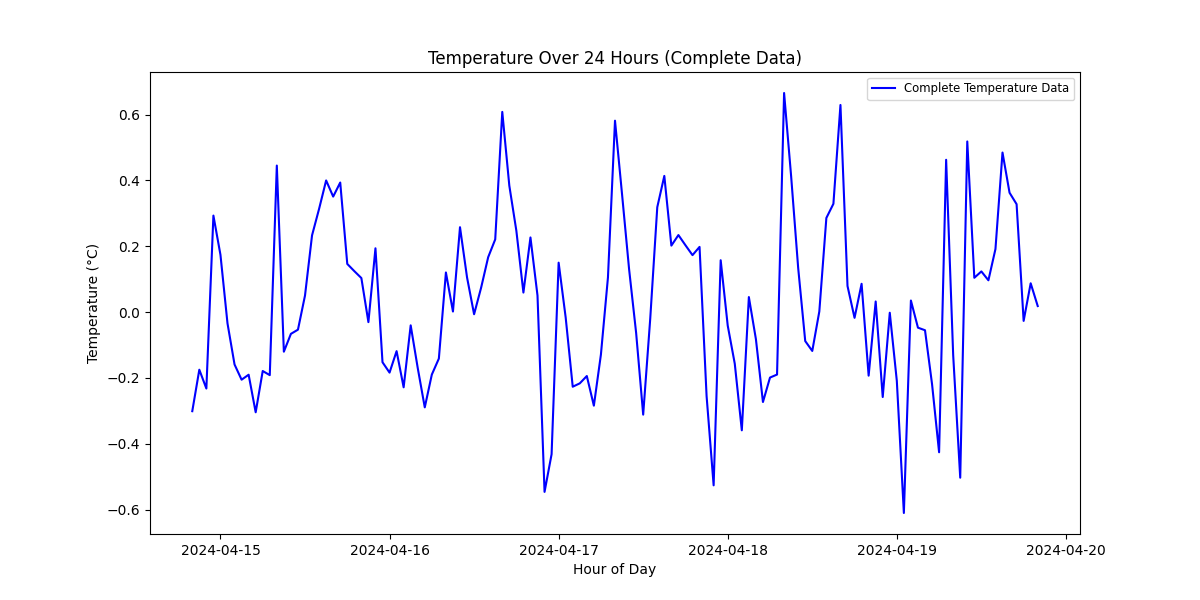
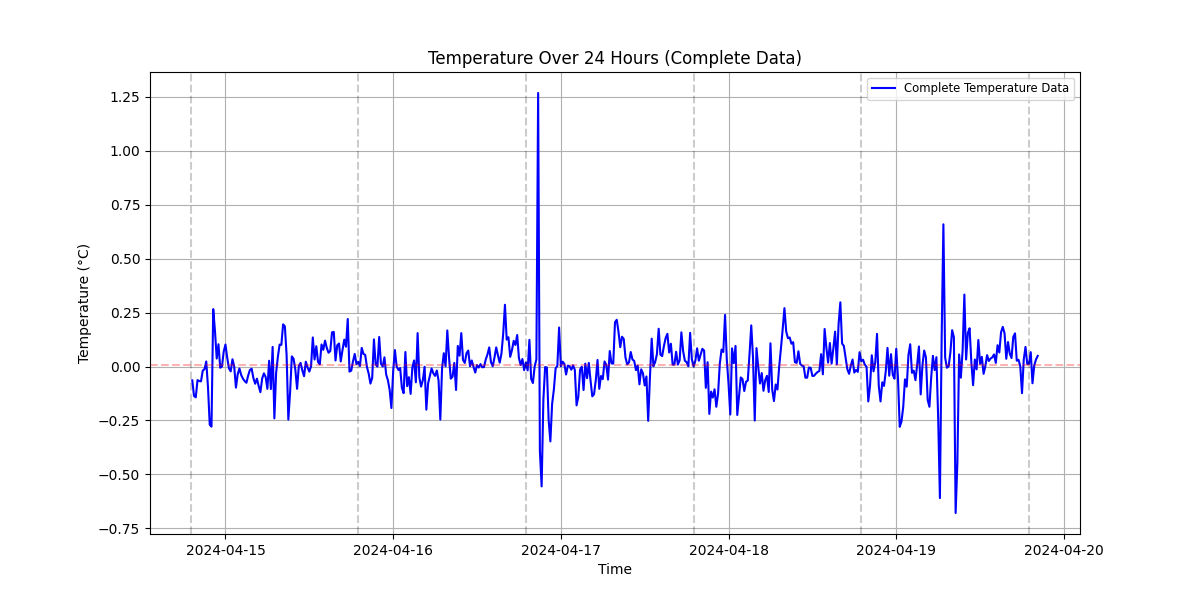
some changes

diff --git a/datamining/tsa/cleaningdata.py b/datamining/tsa/cleaningdata.py
@@ -1,9 +1,10 @@
 import pandas as pd
 import numpy as np
 import matplotlib.pyplot as plt
-import matplotlib.dates as mdates
-from statsmodels.tsa.api import VAR
 from statsmodels.tsa.stattools import adfuller
+from statsmodels.graphics.tsaplots import plot_acf, plot_pacf
+from statsmodels.tsa.arima.model import ARIMA
+from statsmodels.tsa.statespace.sarimax import SARIMAX
 def adf_test(series, title=''):
     """
     Pass in a time series and an optional title, returns ADF report
@@ -37,84 +38,167 @@ df.sort_index(inplace=True)
 #adf_test(df['Temperature'], 'Temperature')
 #adf_test(df['Humidity'], 'Humidity')
 #print(df)
+fig, ax = plt.subplots(2, 1, figsize=(12,8))
+
+plot_acf(df['Temperature'], ax=ax[0], lags=100)
+ax[0].set_title('ACF - Temperature')
+
+plot_pacf(df['Temperature'], ax=ax[1], lags=100)
+ax[1].set_title('PACF - Temperature')
+
+plt.tight_layout()
+plt.savefig('PACF-ACF_Temperature.png')
+
+# Plot ACF and PACF for Humidity
+fig, ax = plt.subplots(2, 1, figsize=(12,8))
+
+plot_acf(df['Humidity'], ax=ax[0], lags=100)
+ax[0].set_title('ACF - Humidity')
+
+plot_pacf(df['Humidity'], ax=ax[1], lags=100)
+ax[1].set_title('PACF - Humidity')
+
+plt.tight_layout()
+plt.savefig('PACF-ACF_Humidity.png')
+
+
+
 start_date = '2024-04-14 19:00:00'
 end_date = '2024-04-19 21:00:00'
 intervals = pd.date_range(start=start_date, end=end_date, freq='24h')
-df['interval'] = pd.cut(df.index, bins=intervals, labels=intervals[:-1])
-#print(df_daily)
-#sns.lineplot(df_daily)
-df_daily = [group for _, group in df.groupby('interval', observed=False)]
-colors = plt.cm.jet(np.linspace(0, 1, len(df_daily)))  # Generate colors for the days
 
+df['Temperature_diff'] = df['Temperature'].diff().dropna()
+
+train_df = df[df.index < intervals[4]]  # First 5 days
+test_df = df[(df.index >= intervals[4]) & (df.index < intervals[5])]  # 6th day
+
+# Initialize lists to store forecasted values
+forecasted_temperature = []
+forecasted_humidity = []
+
+# Train ARIMA model for Temperature
+model_temp = ARIMA(train_df['Temperature'], order=(2, 1, 0))  # Adjust params as needed
+model_temp_fit = model_temp.fit()
+
+# Train SARIMA model for Humidity
+model_humidity = SARIMAX(train_df['Humidity'], order=(2, 0, 0), seasonal_order=(2, 1, 0, 96))  # Adjusted seasonal order
+model_humidity_fit = model_humidity.fit()
+
+# Forecasting hour by hour and updating the model
+for hour in pd.date_range(start=intervals[4], end=intervals[4] + pd.Timedelta(hours=23), freq='h'):
+    # Forecast one hour ahead for both temperature and humidity
+    forecast_temp = model_temp_fit.forecast(steps=1)[0]
+    forecast_humidity = model_humidity_fit.forecast(steps=1)[0]
+    
+    # Store forecasts
+    forecasted_temperature.append(forecast_temp)
+    forecasted_humidity.append(forecast_humidity)
+    
+    # Update models with actual data from the test set (if available)
+    if hour in test_df.index:
+        actual_temp = test_df['Temperature'].loc[hour]
+        actual_humidity = test_df['Humidity'].loc[hour]
+        
+        # Update the ARIMA model for temperature with new data
+        model_temp = ARIMA(train_df['Temperature'].append(pd.Series(actual_temp, index=[hour])), order=(2, 1, 0))
+        model_temp_fit = model_temp.fit()
+        
+        # Update the SARIMA model for humidity with new data
+        model_humidity = SARIMAX(train_df['Humidity'].append(pd.Series(actual_humidity, index=[hour])), 
+                                 order=(2, 0, 0), seasonal_order=(2, 1, 0, 96))
+        model_humidity_fit = model_humidity.fit()
+
+# Create DataFrame for forecasted values
+forecast_df = pd.DataFrame({
+    'Forecasted Temperature': forecasted_temperature,
+    'Forecasted Humidity': forecasted_humidity
+}, index=pd.date_range(start=intervals[4], end=intervals[4] + pd.Timedelta(hours=23), freq='h'))
+
+# Plotting the forecasts and actual data
 plt.figure(figsize=(12, 6))
-for i, day_data in enumerate(df_daily):
-    hours = day_data.index.hour
-    minutes = day_data.index.minute
-    time = hours + minutes / 60.0
-    time = np.where(time > 19, time - 20, time + 24 - 20) 
-    plt.plot(time, day_data['Temperature'], label=f'Date: {day_data.index.date[0]}', color=colors[i])
+
+plt.subplot(2, 1, 1)
+plt.plot(forecast_df['Forecasted Temperature'], label='Forecasted Temperature', color='blue')
+plt.plot(test_df['Temperature'], label='Actual Temperature', color='orange')
+plt.title("Temperature Forecast vs Actual for 6th Day")
+plt.legend()
+
+plt.subplot(2, 1, 2)
+plt.plot(forecast_df['Forecasted Humidity'], label='Forecasted Humidity', color='green')
+plt.plot(test_df['Humidity'], label='Actual Humidity', color='red')
+plt.title("Humidity Forecast vs Actual for 6th Day")
+plt.legend()
+
+plt.tight_layout()
+plt.show()
+plt.savefig('Forecast.png')
+# df['interval'] = pd.cut(df.index, bins=intervals, labels=intervals[:-1])
+# #print(df_daily)
+# #sns.lineplot(df_daily)
+# df_daily = [group for _, group in df.groupby('interval', observed=False)]
+# colors = plt.cm.jet(np.linspace(0, 1, len(df_daily)))  # Generate colors for the days
+
+# plt.figure(figsize=(12, 6))
+# for i, day_data in enumerate(df_daily):
+#     hours = day_data.index.hour
+#     minutes = day_data.index.minute
+#     time = hours + minutes / 60.0
+#     time = np.where(time > 19, time - 20, time + 24 - 20) 
+#     plt.plot(time, day_data['Temperature'], label=f'Date: {day_data.index.date[0]}', color=colors[i])
 
 
-plt.title('Temperature over 24 Hours')
-plt.xlabel('Hour of Day (starting from 19)')
-plt.ylabel('Temperature (°C)')
-plt.xticks(np.arange(0, 24, 1))
-plt.xlim(0, 24)  # Set x-limits to cover the full range from 0 to 23
-plt.grid(True)  # Optional, to make the plot easier to read
-plt.legend(loc='upper right', fontsize='small')
-plt.savefig('output/overlap_temps_before.png')
+# plt.title('Temperature over 24 Hours')
+# plt.xlabel('Hour of Day (starting from 19)')
+# plt.ylabel('Temperature (°C)')
+# plt.xticks(np.arange(0, 24, 1))
+# plt.xlim(0, 24)  # Set x-limits to cover the full range from 0 to 23
+# plt.grid(True)  # Optional, to make the plot easier to read
+# plt.legend(loc='upper right', fontsize='small')
+# plt.savefig('output/overlap_temps_after.png')
 
-plt.figure(figsize=(12, 6))
-for i, day_data in enumerate(df_daily):
-    hours = day_data.index.hour
-    minutes = day_data.index.minute
-    time = hours + minutes / 60.0
-    time = np.where(time > 19, time - 20, time + 24 - 20) 
-    plt.plot(time, day_data['Humidity'], label=f'Date: {day_data.index.date[0]}', color=colors[i])
+# plt.figure(figsize=(12, 6))
+# for i, day_data in enumerate(df_daily):
+#     hours = day_data.index.hour
+#     minutes = day_data.index.minute
+#     time = hours + minutes / 60.0
+#     time = np.where(time > 19, time - 20, time + 24 - 20) 
+#     plt.plot(time, day_data['Humidity'], label=f'Date: {day_data.index.date[0]}', color=colors[i])
 
-plt.title('Humidity over 24 Hours')
-plt.xlabel('Hour of day')
-plt.ylabel('Humidity (%)')
-plt.xticks(np.arange(0, 24, 1))
-plt.xlim(0, 24)  # Set x-limits to cover the full range from 19 to 18 (next day)
-plt.grid(True)  # Optional, to make the plot easier to read
-plt.legend(loc='upper right', fontsize='small')
-plt.savefig('output/overlap_humidity_before.png')
-
-
-
-# Now for the complete data (handling missing values)
-# We will use forward-fill or you can interpolate depending on your preference
-#df_filled = df.ffill()  # Forward-fill missing data (you can use interpolation if needed)
-
-plt.figure(figsize=(12, 6))
-plt.plot(df.index, df['Temperature'], label='Complete Temperature Data', color='blue')
-
-# Add vertical lines at the start of each day
-start_of_day = df.index[df.index.hour == 0]
-for timestamp in start_of_day:
-    plt.axvline(x=timestamp, color='red', linestyle='-', linewidth=0.5)
-
-plt.title('Temperature Over 24 Hours (Complete Data)')
-plt.xlabel('Time')
-plt.ylabel('Temperature (°C)')
-plt.legend(loc='upper right', fontsize='small')
-plt.grid(True)
-plt.savefig('output/all_time_temps_before.png')
+# plt.title('Humidity over 24 Hours')
+# plt.xlabel('Hour of day')
+# plt.ylabel('Humidity (%)')
+# plt.xticks(np.arange(0, 24, 1))
+# plt.xlim(0, 24)  # Set x-limits to cover the full range from 19 to 18 (next day)
+# plt.grid(True)  # Optional, to make the plot easier to read
+# plt.legend(loc='upper right', fontsize='small')
+# plt.savefig('output/overlap_humidity_after.png')
 
 
-# Add vertical lines at the start of each day
-plt.figure(figsize=(24, 12))
-plt.plot(df.index, df['Humidity'], label='Complete Humidity Data', color='green')
+# plt.figure(figsize=(12, 6))
+# plt.plot(df.index, df['Temperature'], label='Complete Temperature Data', color='blue')
 
-# Add vertical lines at the start of each day
-start_of_day = df.index[df.index.hour == 0]
-for timestamp in start_of_day:
-    plt.axvline(x=timestamp, color='red', linestyle='-', linewidth=0.5)
+# start_of_day = df.index[df.index.hour == pd.timedelta_range]
+# for day in intervals:
+#     plt.axvline(day, color='k', linestyle='--', alpha=0.2)
+# plt.axhline(df['Temperature'].mean(), color='r', alpha=0.3, linestyle='--')
+# plt.title('Temperature Over 24 Hours (Complete Data)')
+# plt.xlabel('Time')
+# plt.ylabel('Temperature (°C)')
+# plt.legend(loc='upper right', fontsize='small')
+# plt.grid(True)
+# plt.savefig('output/all_time_temps_after.png')
 
-plt.title('Humidity Over 24 Hours (Complete Data)')
-plt.xlabel('Time')
-plt.ylabel('Humidity (%)')
-plt.legend(loc='upper right', fontsize='small')
-plt.grid(True)
-plt.savefig('output/all_time_humidity_before.png')
+
+# plt.figure(figsize=(12, 6))
+# plt.plot(df.index, df['Humidity'], label='Complete Humidity Data', color='red')
+
+# start_of_day = df.index[df.index.hour == 0]
+# for day in intervals:
+#     plt.axvline(day, color='k', linestyle='--', alpha=0.2)
+# plt.axhline(df['Humidity'].mean(), color='b', alpha=0.3, linestyle='--')
+# plt.title('Humidity Over 24 Hours (Complete Data)')
+# plt.xlabel('Time')
+# plt.ylabel('Humidity (%)')
+# plt.legend(loc='upper right', fontsize='small')
+# plt.grid(True)
+# plt.savefig('output/all_time_humidity_after.png')

diff --git a/MachineLearning/nubes de puntos/Decision_tree.py b/MachineLearning/nubes de puntos/Decision_tree.py
@@ -26,7 +26,10 @@ ada = AdaBoostClassifier(estimator=DecisionTreeClassifier(max_depth=4),algorithm
 # Evaluar DecisionTreeClassifier con validación cruzada
 scores = cross_val_score(clf, X, y, cv=10)
 print("Puntuación media de DecisionTree: ", scores.mean())
-
+end_time = time.time()
+elapsed_time = end_time - start_time
+print(f"Tiempo de ejecución: {elapsed_time} segundos")
+start_time= time.time()
 # clf.fit(X_train, y_train)
 # test_score = clf.score(X_test, y_test)
 # print("Puntuación en el conjunto de prueba de DecisionTree: ", test_score)
@@ -34,7 +37,10 @@ print("Puntuación media de DecisionTree: ", scores.mean())
 # Evaluar RandomForestClassifier con validación cruzada
 scores = cross_val_score(rf, X, y, cv=10)
 print("Puntuación media de RandomForest: ", scores.mean())
-
+end_time = time.time()
+elapsed_time = end_time - start_time
+print(f"Tiempo de ejecución: {elapsed_time} segundos")
+start_time= time.time()
 # rf.fit(X_train, y_train)
 # test_score = rf.score(X_test, y_test)
 # print("Puntuación en el conjunto de prueba de RandomForest: ", test_score)
@@ -42,12 +48,9 @@ print("Puntuación media de RandomForest: ", scores.mean())
 # Evaluar AdaBoostClassifier con validación cruzada
 scores = cross_val_score(ada, X, y, cv=10)
 print("Puntuación media de AdaBoost: ", scores.mean())
-
-# ada.fit(X_train, y_train)
-# test_score = ada.score(X_test, y_test)
-# print("Puntuación en el conjunto de prueba de AdaBoost: ", test_score)
-
-# Medir el tiempo de ejecución
 end_time = time.time()
 elapsed_time = end_time - start_time
 print(f"Tiempo de ejecución: {elapsed_time} segundos")
+# ada.fit(X_train, y_train)
+# test_score = ada.score(X_test, y_test)
+# print("Puntuación en el conjunto de prueba de AdaBoost: ", test_score)

diff --git a/MachineLearning/nubes de puntos/caracteristicas.py b/MachineLearning/nubes de puntos/caracteristicas.py
@@ -51,20 +51,15 @@ def compute_convex_hull_volume(points):
     hull = spatial.ConvexHull(points)
     return hull.volume
 
+def tetrahedron_volume(tetra):
+    a, b, c, d = tetra
+    return np.abs(np.dot(a - d, np.cross(b - d, c - d))) / 6.0
+    
 def compute_actual_volume(points):
-    """
-    Approximate the actual volume enclosed by the point cloud using Delaunay triangulation.
-    """
+
     delaunay = spatial.Delaunay(points)
     simplices = delaunay.simplices
     tetrahedra = points[simplices]
-
-    def tetrahedron_volume(tetra):
-        """
-        Calculate the volume of a tetrahedron given its vertices.
-        """
-        a, b, c, d = tetra
-        return np.abs(np.dot(a - d, np.cross(b - d, c - d))) / 6.0
 
     volumes = np.array([tetrahedron_volume(tetra) for tetra in tetrahedra])
     return np.sum(volumes)
